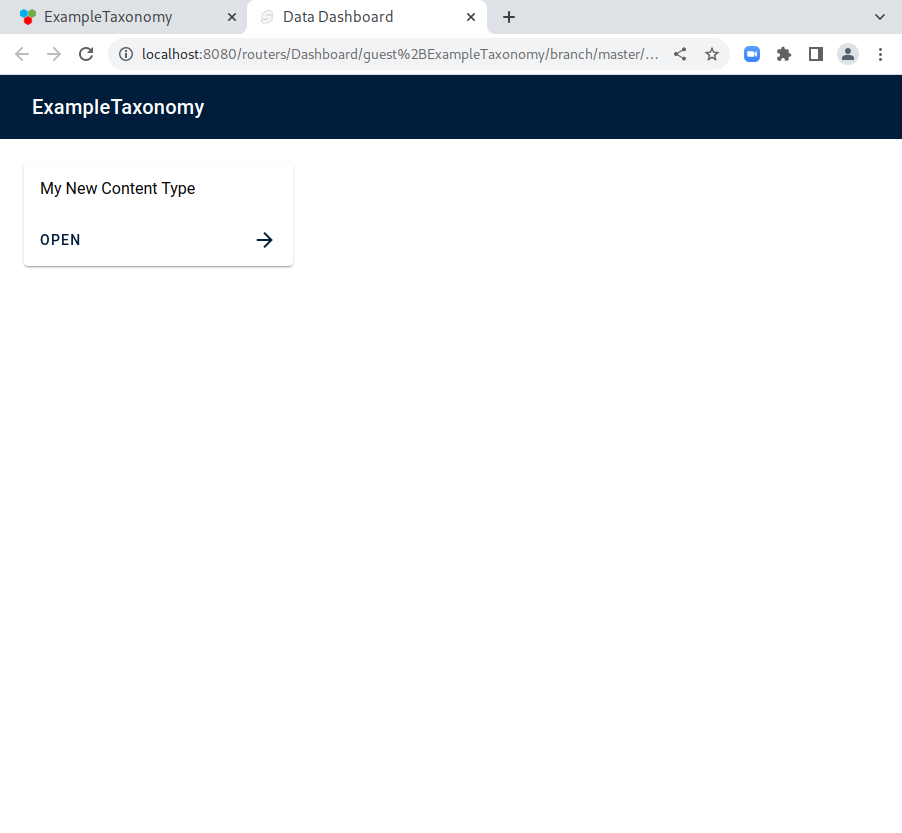
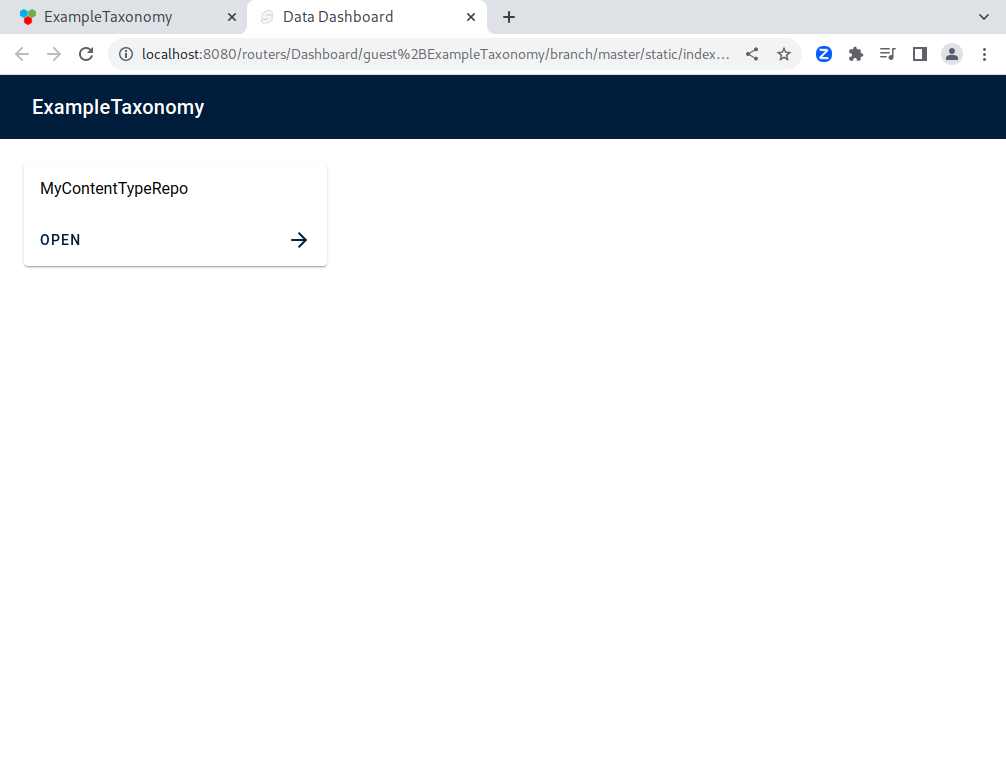
Update taxonomy, content type walkthroughs. Close #247

diff --git a/docs/walkthrough/create-content-type.rst b/docs/walkthrough/create-content-type.rst
@@ -1,13 +1,16 @@
 Creating Content Types
 ----------------------
 
-After creating a taxonomy composed of one or more vocabularies, we can now define a content type! To review, content type consists of 3 elements:
+After creating a taxonomy composed of one or more vocabularies, we can now define a content type! To review, content type consists of 3 or 4 elements:
 
 - name
 - vocabularies to use for tagging this type of content
 - storage information (for retrieving the actual data)
+- any nested content types representing contained content
 
-To add our own content type, we will first drag a "ContentType" (aka "taxonomy.Content Type") node from the part browser in the lower left into the project alongside (not within) the taxonomy node. After adding the new content type, we can select it and then set its name from the pane on the lower right.
+In this walkthrough, we will be modeling a content type that consists of repositories of artifacts. That is, we will be modeling hierarchical content consisting of 2 content types.
+
+First, let's create the content type for the top level content (ie, the repositories). To add our own content type, we will first drag a "ContentType" (aka "taxonomy.Content Type") node from the part browser in the lower left into the project alongside (not within) the taxonomy node. After adding the new content type, we can select it and then set its name from the pane on the lower right.
 
 .. figure:: create_content.png
     :align: center
@@ -22,7 +25,13 @@ After we name the content type, we just need to define the storage information f
     Define the storage information to specify where to store and retrieve this type of content.
 
 
-Finally, we can define the valid vocabularies for the content type. First, we select the "Set membership" visualizer from the top left pane. Finally, we can drag vocabularies from the tree browser in the top right into the center to add them to the set of valid vocabularies.
+Next, we can define the valid vocabularies for the content type (ie, the repositories). First, we create a "Vocabularies" container in the content type by dragging it from the lower left pane. Then, we can drag vocabularies from the tree browser in the top right into the center. After dropping them in the vocabularies container, select "Create an instance" to add them to the set of valid vocabularies.
+
+.. figure:: create_vocab_container.png
+    :align: center
+
+    Create a vocabularies container for the content type.
+
 
 .. figure:: add_vocab.png
     :align: center
@@ -30,7 +39,9 @@ Finally, we can define the valid vocabularies for the content type. First, we se
     Add a vocabulary to the set of valid vocabularies for a content type by dragging from the tree browser.
 
 
-Now our content type should be complete! If we open the content type dashboard as shown below, we should see the new content type listed!
+Since we would like to model hierarchical content, we will now follow the same process to create a content type within this newly created content type. However, since this content type is contained in the parent, we will not define storage information. It is worth noting that we are not restricting to the same valid vocabularies for the repositories and artifacts in the repository. There may be tags, such as principle investigator or site, which we would like to associate with the entire repository rather than a single uploaded artifact.
+
+After we model the contained content type, our content type(s) should be complete! If we open the content type dashboard as shown below, we should see the new content type listed!
 
 .. figure:: open_dashboard.png
     :align: center

diff --git a/docs/getting_started/getting_started.rst b/docs/getting_started/getting_started.rst
@@ -2,7 +2,7 @@ Getting Started
 ===============
 
 What is the Taxonomy Design Studio?
-------------------
+-----------------------------------
 At a high-level, the taxonomy design studio is a generic tool for organizing complex heterogenous (series) data. It provides a few tools for both defining taxonomies and browsing data tagged using the defined taxonomies. This tool was designed as part of a broader integration platform, the Unified Data and Compute Platform (UDCP), for the `MCpsych project <https://wellcomeleap.org/mcpsych/>`_.
 
 Motivation
